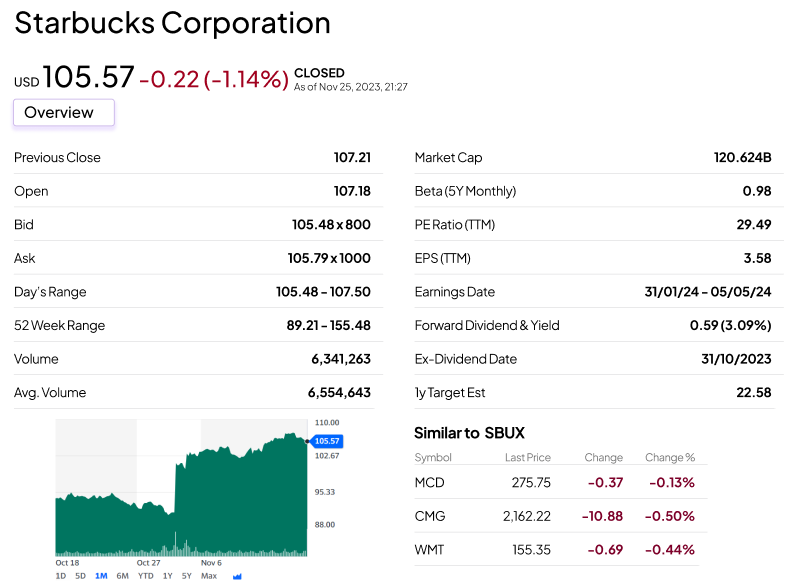
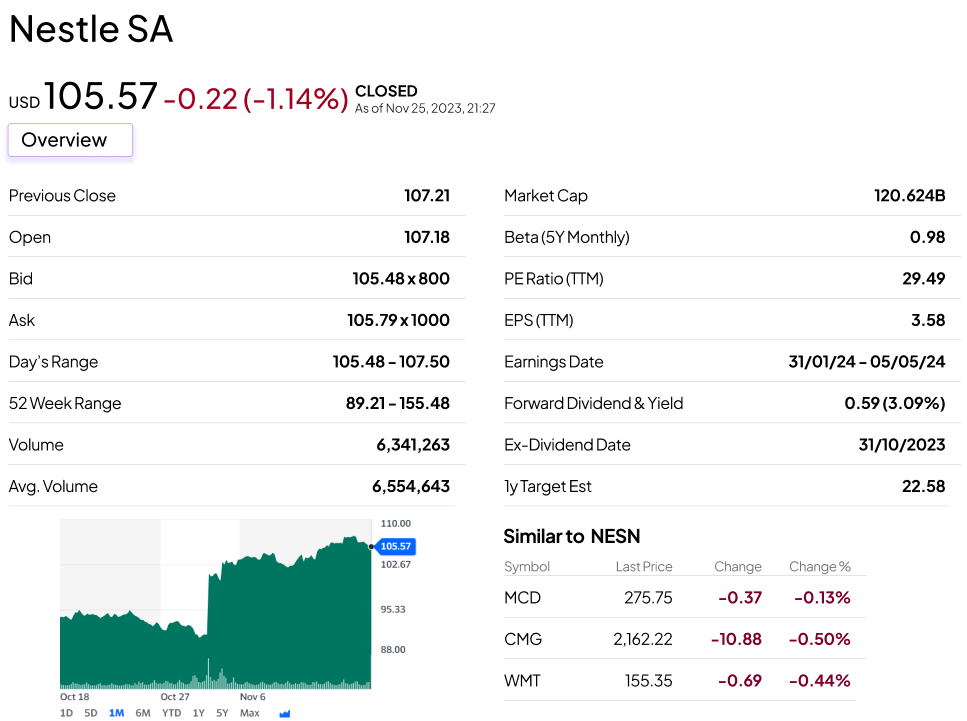
gredw

diff --git a/company/static/company/css/company.css b/company/static/company/css/company.css
@@ -143,7 +143,8 @@ nav{
     margin-top: 25px;
     width: 615px;
     height: 100px;
-    font-size: 5px;
+    font-size: 10px;
+    margin-top: 5px;
 }
 
 .stan_output p{
@@ -189,20 +190,22 @@ nav{
     border-radius: 33px;
     box-shadow: 0px 4px 4px 10px #EFE6FE;
 /* wei shen add */
-    overflow: scroll;
+    overflow: auto;
+    
 }
 
-/* wei shen add */
+/* wei shen add 
 .chat_window::-webkit-scrollbar {
     display: none;
 }
-
+*/
 .chat_window p{
     /* wei shen change */
     margin-top: 25px;
     margin-left: 10px;
     margin-left: 10px;
     text-align: left;
+    font-size: 10px;
 
 }
 
@@ -211,6 +214,8 @@ nav{
     position: absolute;
     left: 10px;
     bottom: -70px;
+    border: 1px solid rgba(194, 171, 229, 0.97);
+
 }
 
 footer{

diff --git a/company/templates/company/company.html b/company/templates/company/company.html
@@ -4,7 +4,7 @@
 <head>
     <meta charset="UTF-8">
     <meta name="viewport" content="width=device-width, initial-scale=1.0">
-    <title>Starbucks</title>
+    <title>Nestle</title>
     <link rel="stylesheet" href="{% static 'company/css/company.css' %}">
     <link rel="stylesheet" href="https://fonts.googleapis.com/css2?family=Plus+Jakarta+Sans:wght@400;700&display=swap">
 
@@ -25,7 +25,7 @@
     </nav>
 
     <div class="pphead"></div>
-    <div class="title"><p>Starbucks Corporation <br> NASDAQ:SBUX</p></div>
+    <div class="title"><p>Nestle SA<br>SWX: NESN</p></div>
     <div class="pic">
         <img src="{% static 'company/images/stock.png' %}" alt="stock pic" class="stock">
     </div>
